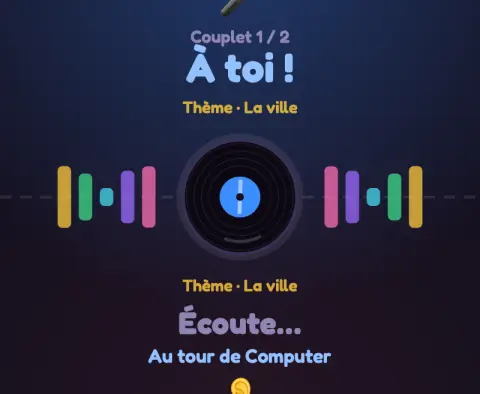
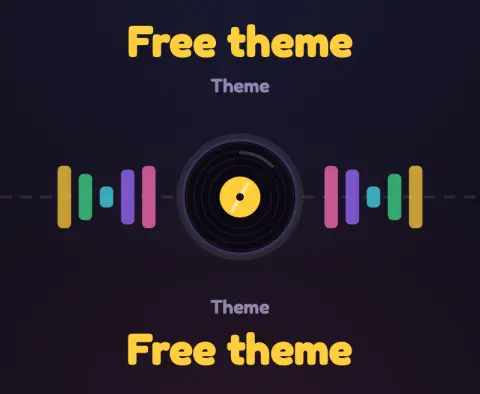
feat(freestyle): English and no theme by default

diff --git a/src/games/freestyle/index.test.ts b/src/games/freestyle/index.test.ts
@@ -1,5 +1,5 @@
 import { describe, expect, it } from 'vitest'
-import { STEP, type GameContext, type Mode } from '../../core/game.ts'
+import { optionValues, STEP, type GameContext, type Mode } from '../../core/game.ts'
 import { Rng } from '../../core/rng.ts'
 import createGame, { match, options } from './index.ts'
 
@@ -57,6 +57,17 @@ describe('Freestyle Battle', () => {
     copy.init(context('2p', [true, true]))
     copy.restore(JSON.parse(JSON.stringify(game.snapshot())))
     expect((copy.snapshot() as { s: unknown }).s).toEqual(s)
+  })
+
+  it('plays in English with imposed words and no theme by default', () => {
+    for (const o of [undefined, optionValues(options)]) {
+      const game = createGame()
+      game.init(context('2p', [true, true], o))
+      const s = (game.snapshot() as { s: { lang: string; theme: unknown; words: string[][] } }).s
+      expect(s.lang).toBe('en')
+      expect(s.theme).toBeNull()
+      expect(s.words.flat().length).toBeGreaterThan(0)
+    }
   })
 
   it('declares every option default among its choices', () => {

diff --git a/src/games/freestyle/index.ts b/src/games/freestyle/index.ts
@@ -29,10 +29,10 @@ export const options: OptionSpec[] = [
     id: 'lang',
     label: 'Language',
     choices: [
-      ['fr', 'Français'],
       ['en', 'English'],
+      ['fr', 'Français'],
     ],
-    default: 'fr',
+    default: 'en',
   },
   {
     id: 'words',
@@ -51,7 +51,7 @@ export const options: OptionSpec[] = [
       ['random', 'Random'],
       ...THEME_IDS.map((id): [string, string] => [id, `${THEMES[id]?.en} · ${THEMES[id]?.fr}`]),
     ],
-    default: 'random',
+    default: 'none',
     wrap: true,
   },
 ]
@@ -72,9 +72,9 @@ class Freestyle extends BaseGame<State> {
     return battleNew(
       ctx.rng,
       {
-        lang: (o.lang === 'en' ? 'en' : 'fr') as Lang,
+        lang: (o.lang === 'fr' ? 'fr' : 'en') as Lang,
         words: o.words !== 'off',
-        theme: o.theme ?? 'random',
+        theme: o.theme ?? 'none',
       },
       ctx.target || match.default,
       this.look.solo,
